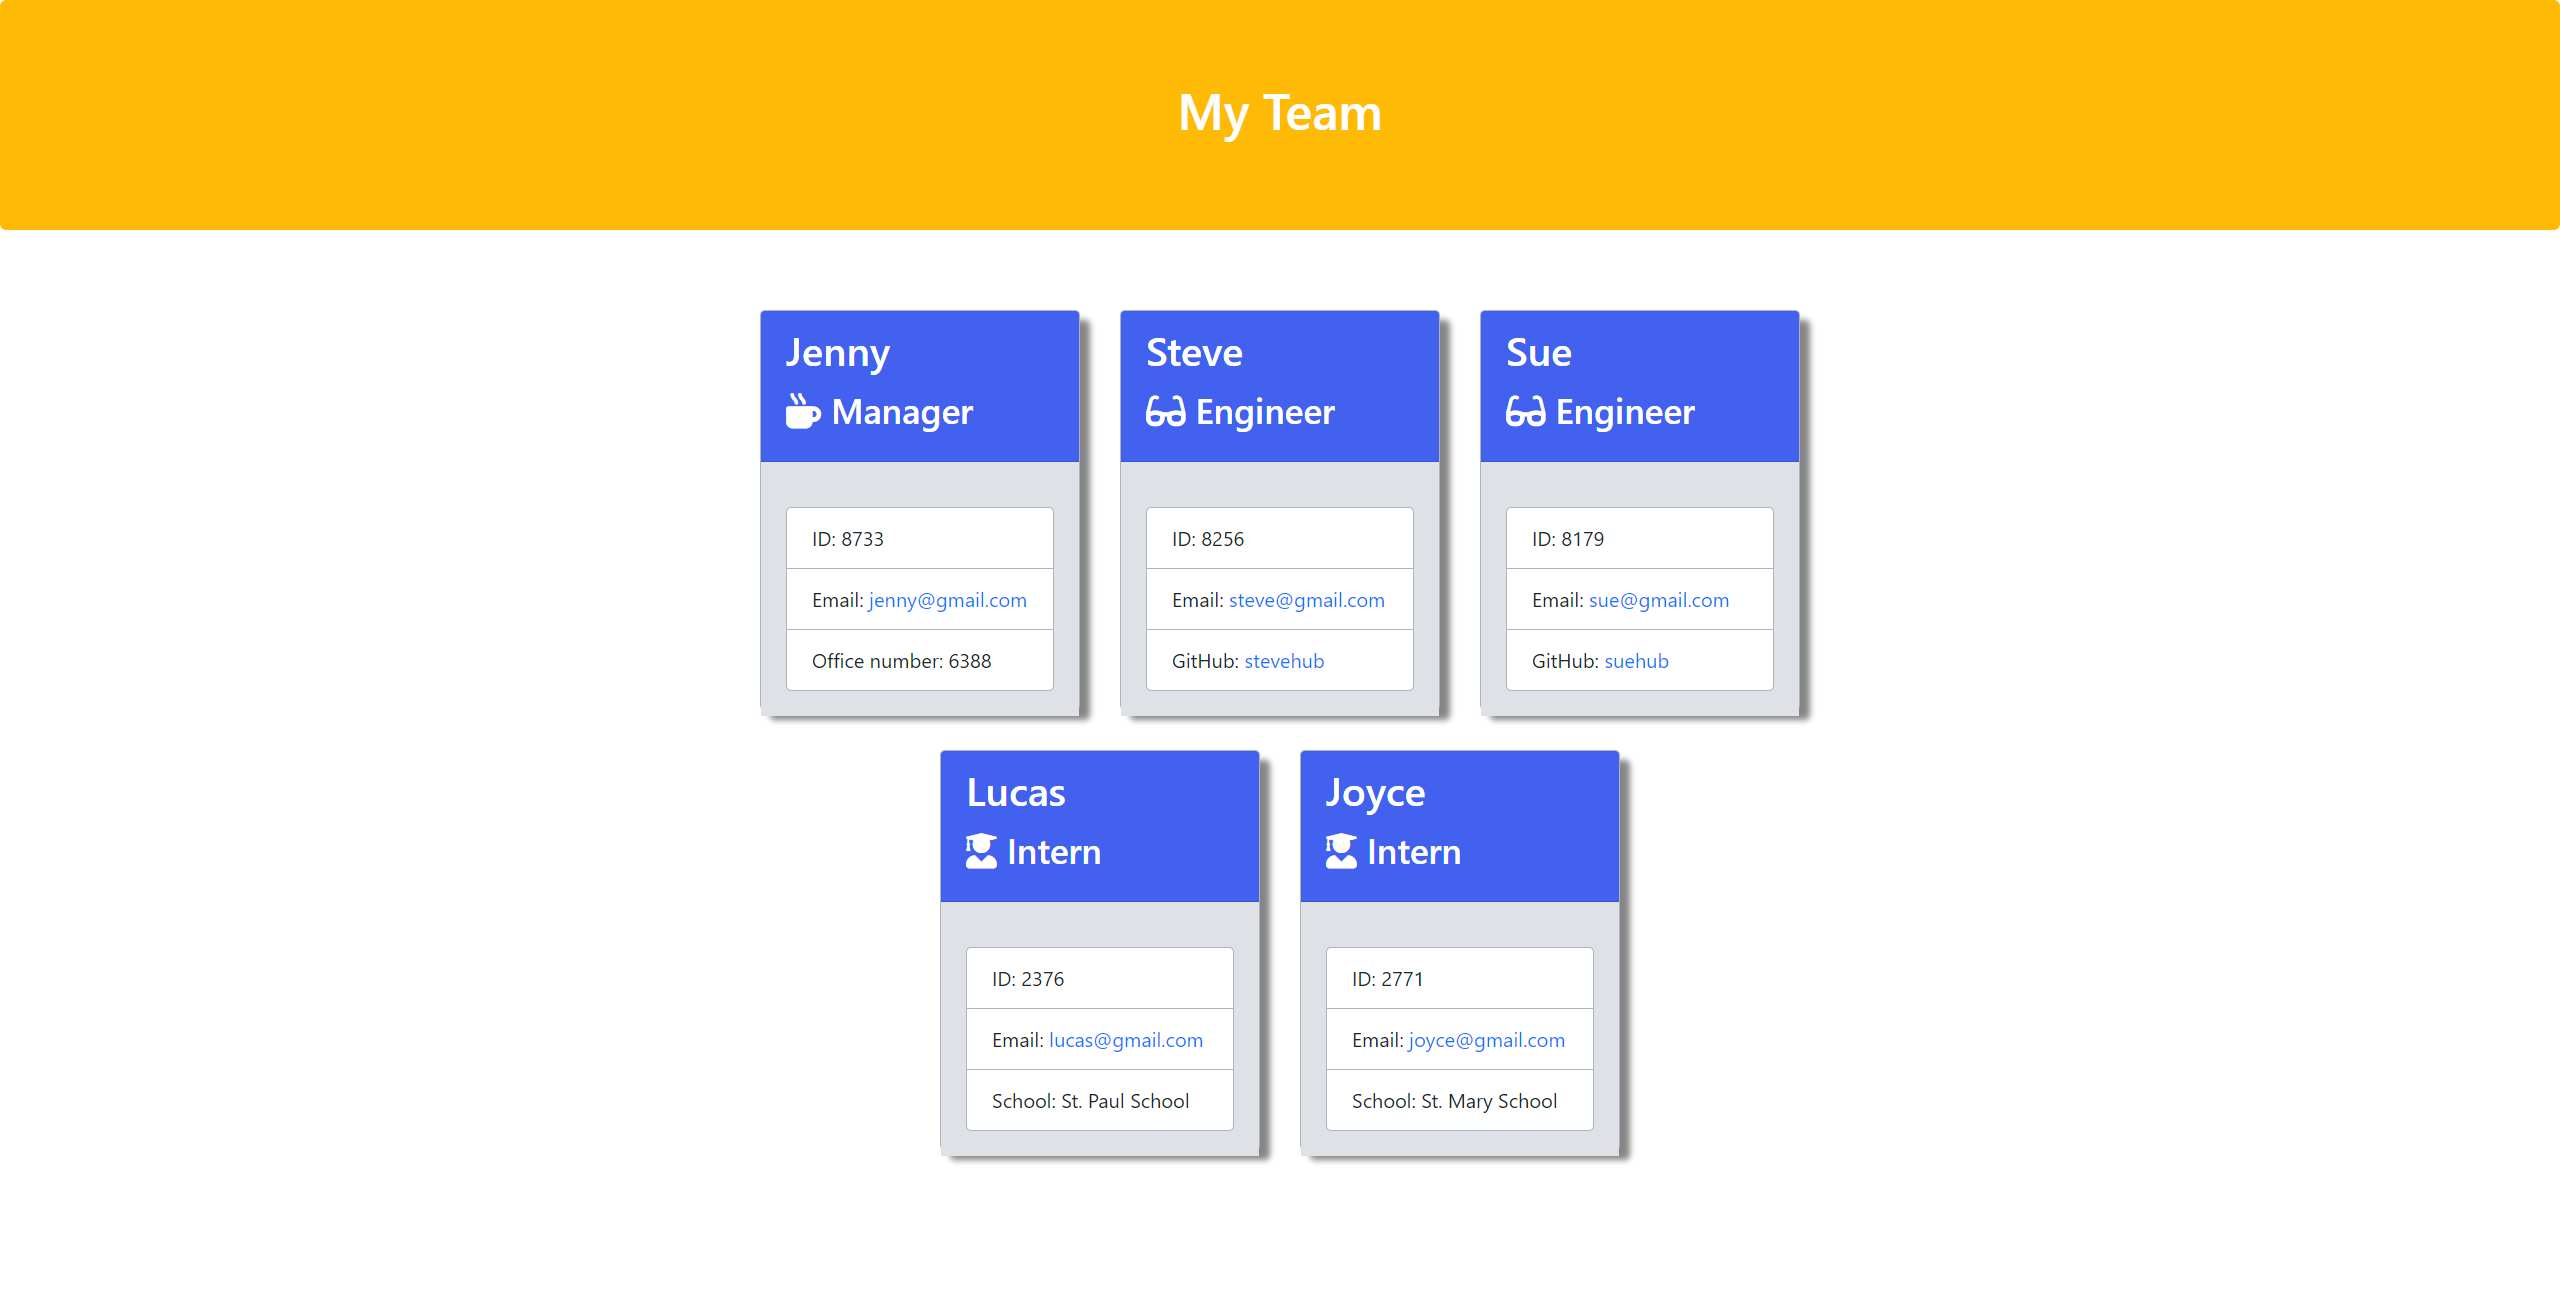
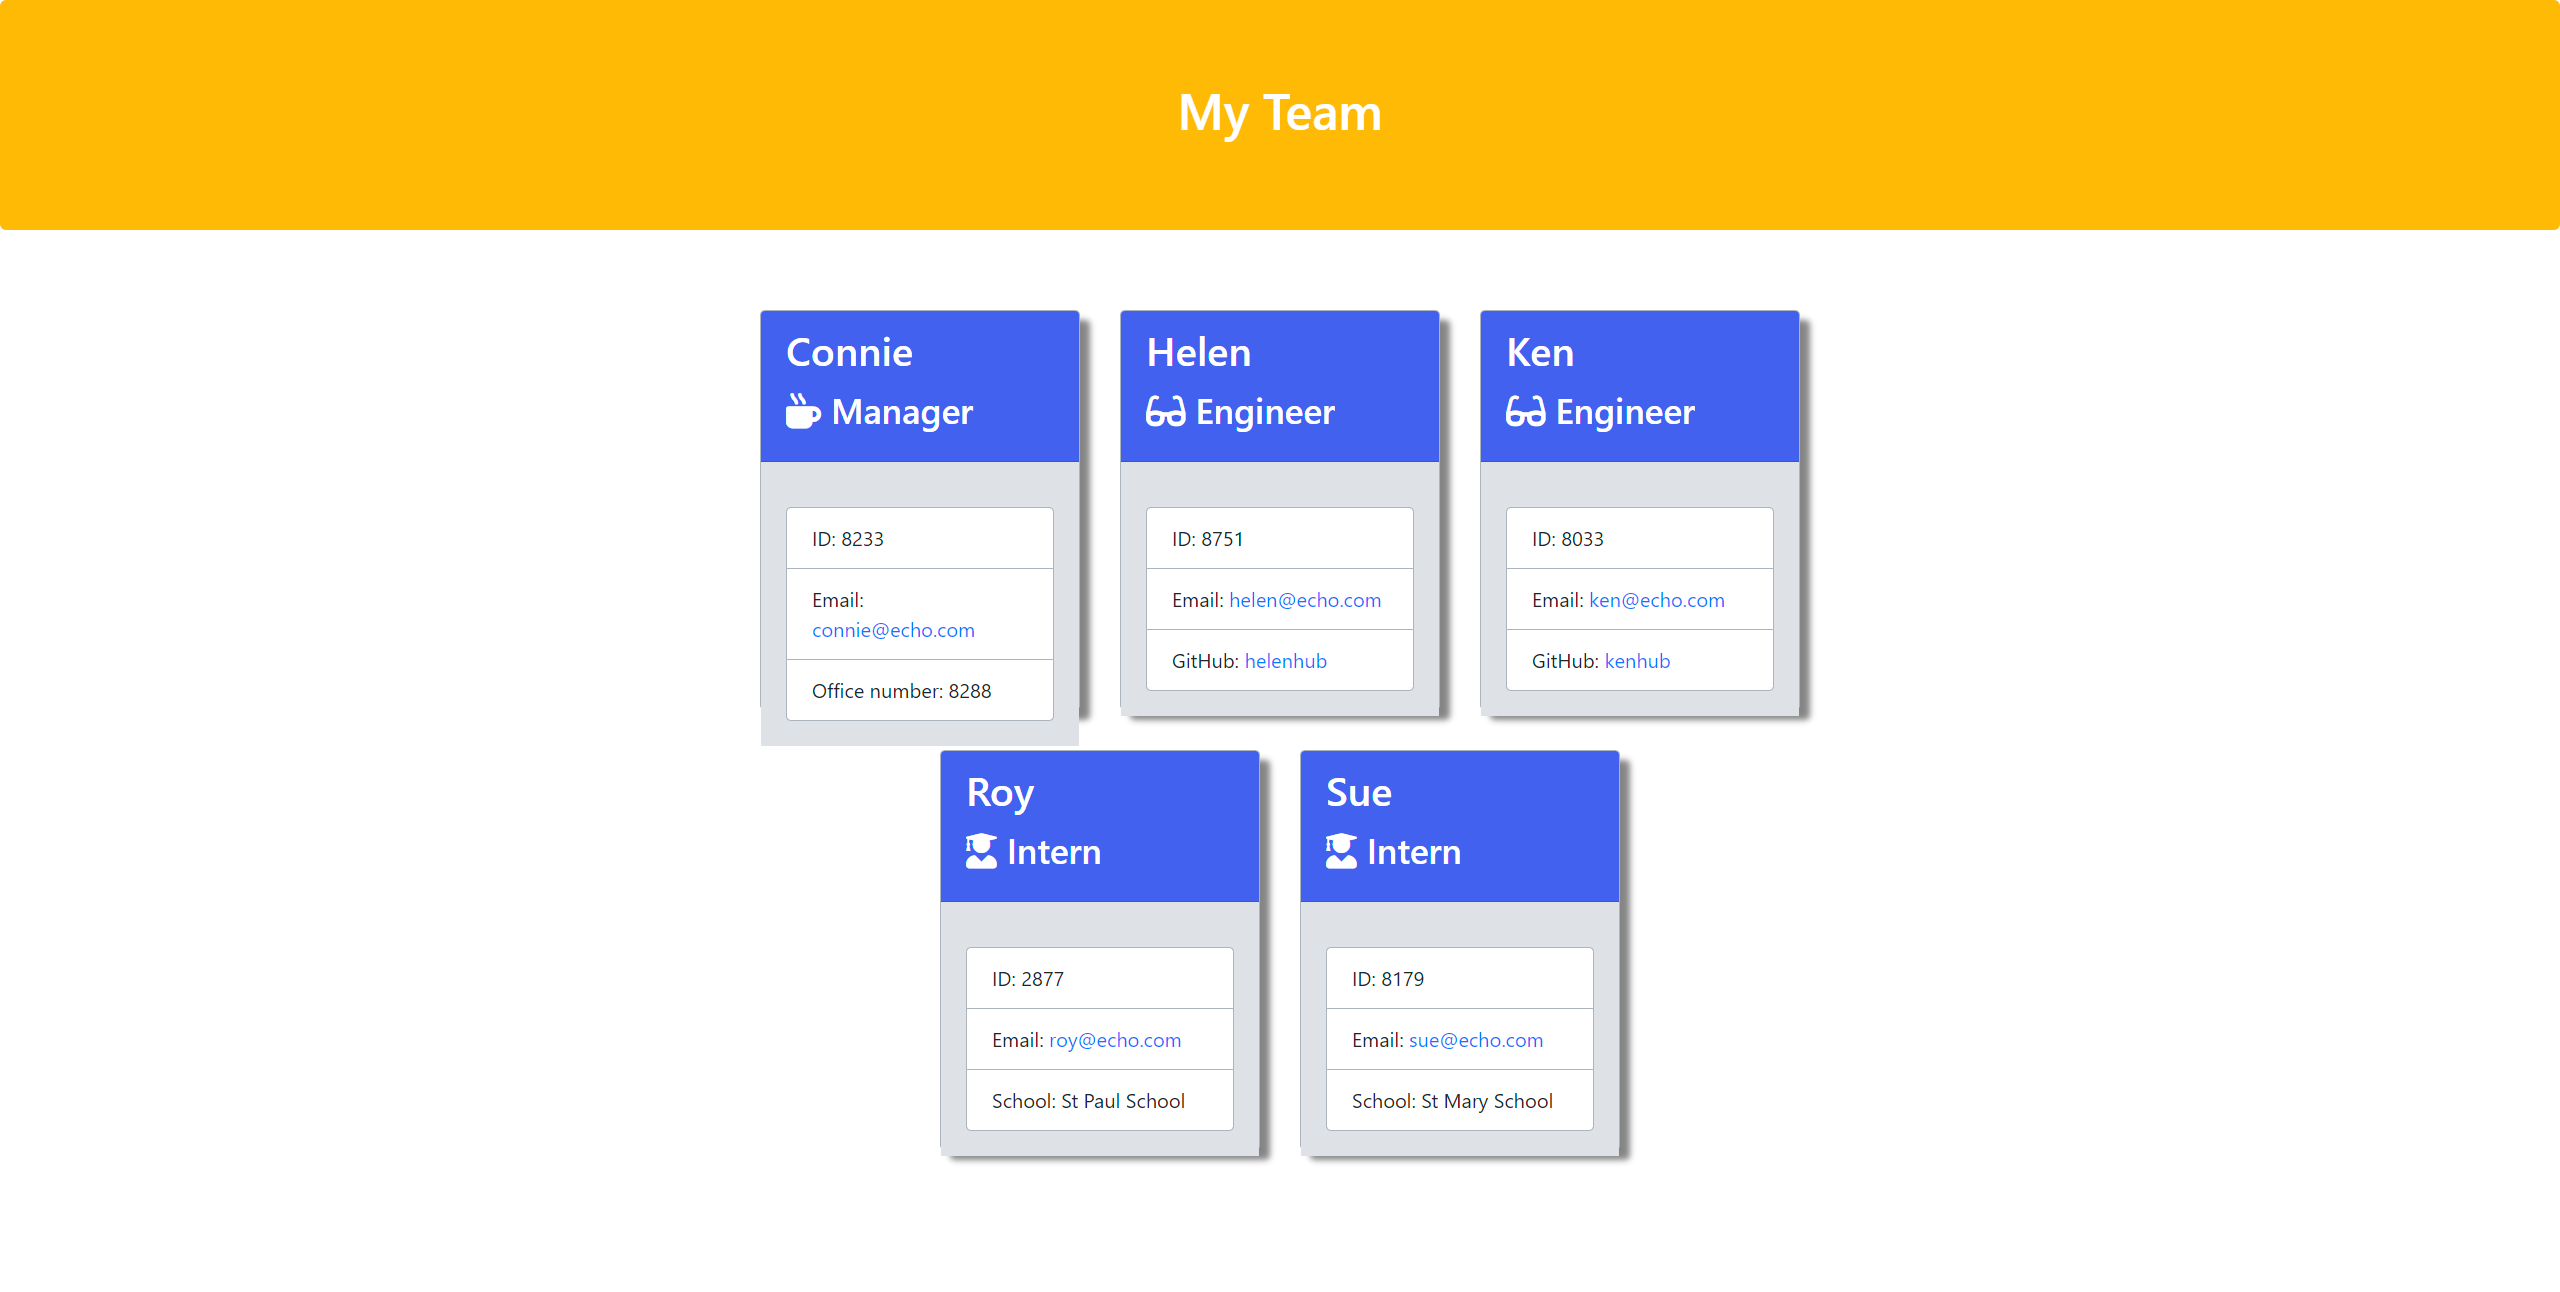
fixed validation for school name and regenerated HTML file in the output directory

diff --git a/output/team.html b/output/team.html
@@ -27,17 +27,73 @@
                 
         <div class="card employee-card">
         <div class="card-header">
-            <h2 class="card-title">fdhd</h2>
+            <h2 class="card-title">Connie</h2>
             <h3 class="card-title"><i class="fas fa-mug-hot mr-2"></i>Manager</h3>
         </div>
         <div class="card-body">
             <ul class="list-group">
-                <li class="list-group-item">ID: 7377</li>
-                <li class="list-group-item">Email: <a href="mailto:hal@gmail.com">hal@gmail.com</a></li>
-                <li class="list-group-item">Office number: 74981</li>
+                <li class="list-group-item">ID: 8233</li>
+                <li class="list-group-item">Email: <a href="mailto:connie@echo.com">connie@echo.com</a></li>
+                <li class="list-group-item">Office number: 8288</li>
             </ul>
         </div>
     </div>
+        
+        <div class="card employee-card">
+    <div class="card-header">
+        <h2 class="card-title">Helen</h2>
+        <h3 class="card-title"><i class="fas fa-glasses mr-2"></i>Engineer</h3>
+    </div>
+    <div class="card-body">
+        <ul class="list-group">
+            <li class="list-group-item">ID: 8751</li>
+            <li class="list-group-item">Email: <a href="mailto:helen@echo.com">helen@echo.com</a></li>
+            <li class="list-group-item">GitHub: <a href="https://github.com/helenhub" target="_blank" rel="noopener noreferrer">helenhub</a></li>
+        </ul>
+    </div>
+</div>
+        
+        <div class="card employee-card">
+    <div class="card-header">
+        <h2 class="card-title">Ken</h2>
+        <h3 class="card-title"><i class="fas fa-glasses mr-2"></i>Engineer</h3>
+    </div>
+    <div class="card-body">
+        <ul class="list-group">
+            <li class="list-group-item">ID: 8033</li>
+            <li class="list-group-item">Email: <a href="mailto:ken@echo.com">ken@echo.com</a></li>
+            <li class="list-group-item">GitHub: <a href="https://github.com/kenhub" target="_blank" rel="noopener noreferrer">kenhub</a></li>
+        </ul>
+    </div>
+</div>
+        
+        <div class="card employee-card">
+    <div class="card-header">
+        <h2 class="card-title">Roy</h2>
+        <h3 class="card-title"><i class="fas fa-user-graduate mr-2"></i>Intern</h3>
+    </div>
+    <div class="card-body">
+        <ul class="list-group">
+            <li class="list-group-item">ID: 2877</li>
+            <li class="list-group-item">Email: <a href="mailto:roy@echo.com">roy@echo.com</a></li>
+            <li class="list-group-item">School: St Paul School</li>
+        </ul>
+    </div>
+</div>
+        
+        <div class="card employee-card">
+    <div class="card-header">
+        <h2 class="card-title">Sue</h2>
+        <h3 class="card-title"><i class="fas fa-user-graduate mr-2"></i>Intern</h3>
+    </div>
+    <div class="card-body">
+        <ul class="list-group">
+            <li class="list-group-item">ID: 8179</li>
+            <li class="list-group-item">Email: <a href="mailto:sue@echo.com">sue@echo.com</a></li>
+            <li class="list-group-item">School: St Mary School</li>
+        </ul>
+    </div>
+</div>
         
             </div>
         </div>

diff --git a/index.js b/index.js
@@ -204,7 +204,7 @@ const memberMenu = () => {
                     name: "school",
                     message: "Please enter the school of the intern:",
                     validate: (yourSchool) => {
-                        validSchool = /^[A-Za-z]+$/.test(yourSchool)
+                        validSchool = /^[A-Za-z\s]*$/.test(yourSchool)
                         if (validSchool) {
                             return true;
                         } else {
